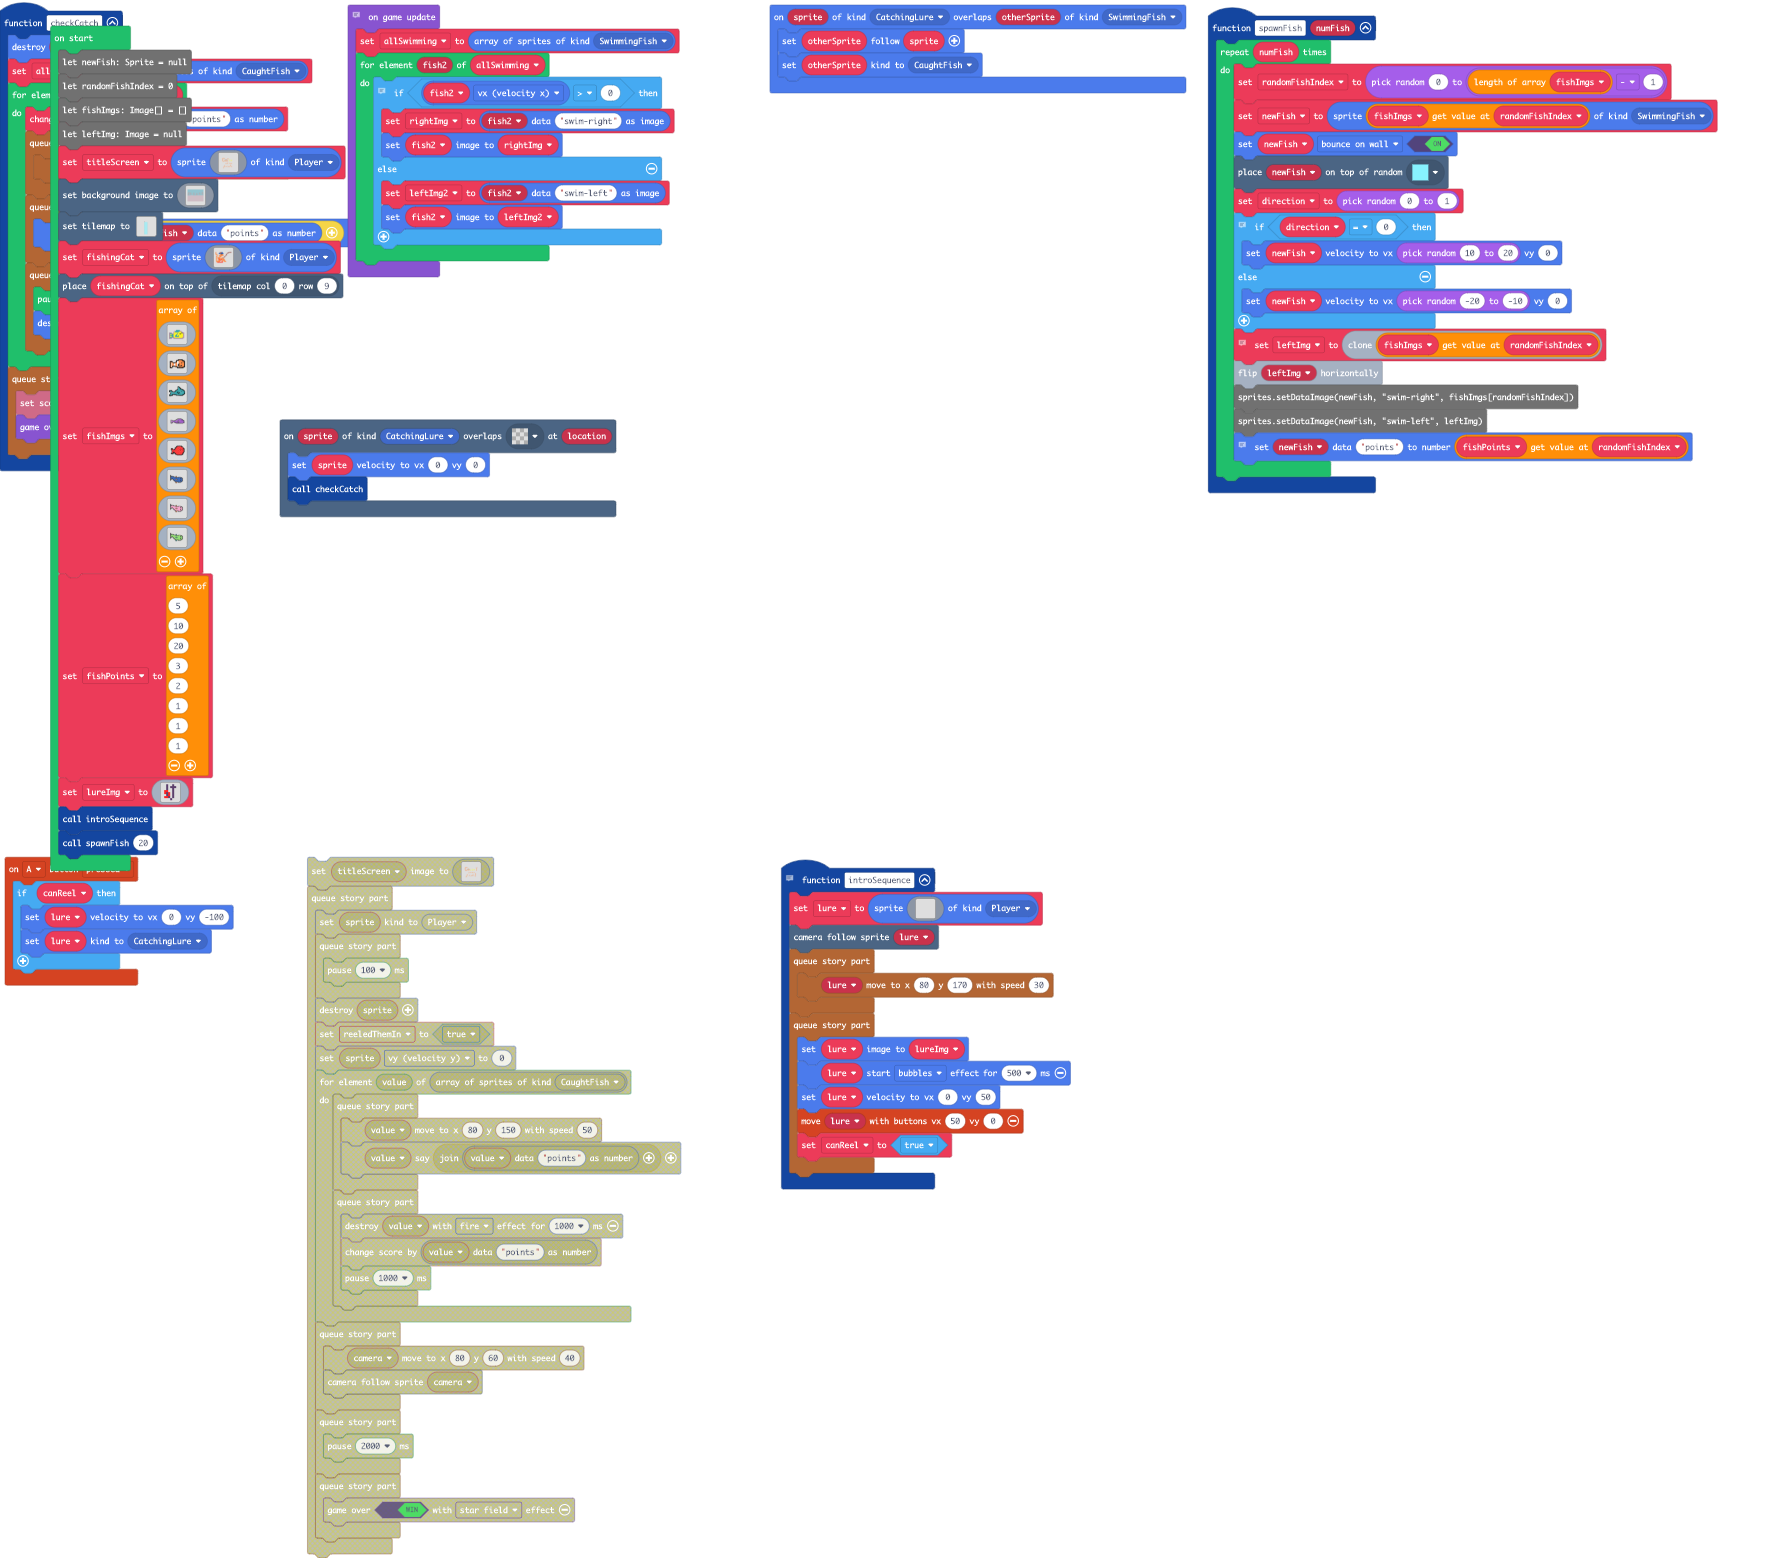
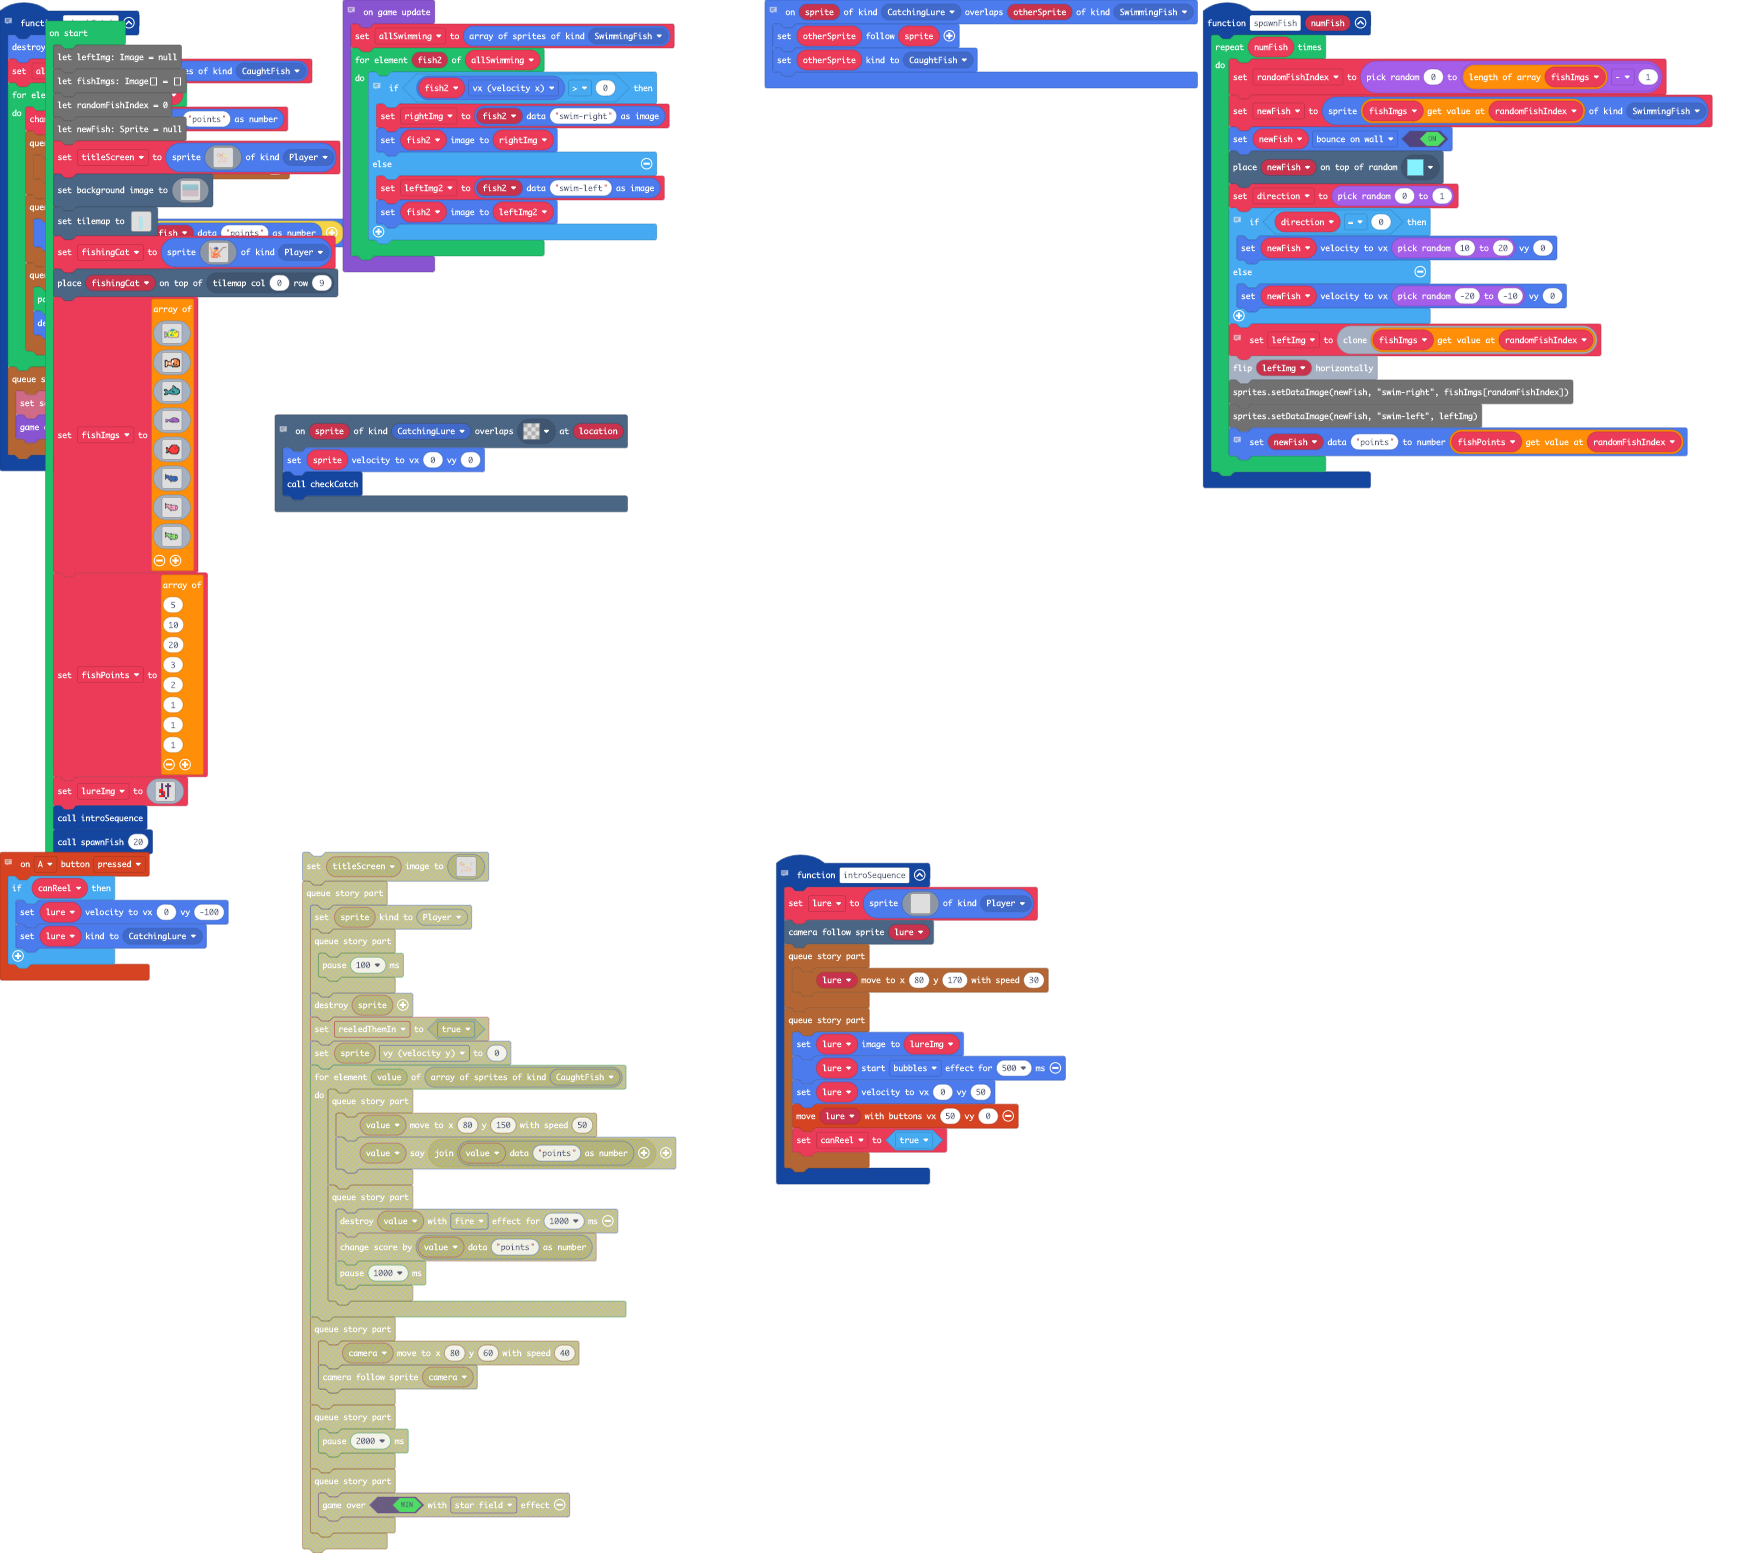
Update pxt.json, main.blocks, main.ts

diff --git a/main.ts b/main.ts
@@ -3,7 +3,11 @@ namespace SpriteKind {
     export const SwimmingFish = SpriteKind.create()
     export const CaughtFish = SpriteKind.create()
 }
-
+// When lure is reeled to surface of water
+scene.onOverlapTile(SpriteKind.CatchingLure, myTiles.transparency16, function (sprite, location) {
+    sprite.setVelocity(0, 0)
+    checkCatch()
+})
 // Intro sequence to pan down and drop lure
 function introSequence () {
     lure = sprites.create(img`
@@ -36,42 +40,6 @@ function introSequence () {
         canReel = true
     })
 }
-
-function spawnFish (numFish: number) {
-    for (let index = 0; index < numFish; index++) {
-        randomFishIndex = randint(0, fishImgs.length - 1)
-        newFish = sprites.create(fishImgs[randomFishIndex], SpriteKind.SwimmingFish)
-        newFish.setFlag(SpriteFlag.BounceOnWall, true)
-        tiles.placeOnRandomTile(newFish, myTiles.tile4)
-        
-        direction = randint(0, 1)
-
-        // Swim right
-        if (direction == 0) {
-            newFish.setVelocity(randint(10, 20), 0)
-        }
-        // Swim left
-        else {
-            newFish.setVelocity(randint(-20, -10), 0)
-        }
-
-        // Store left and right images
-        leftImg = fishImgs[randomFishIndex].clone()
-        leftImg.flipX()
-        sprites.setDataImage(newFish, "swim-right", fishImgs[randomFishIndex])
-        sprites.setDataImage(newFish, "swim-left", leftImg)
-
-        // Store points
-        sprites.setDataNumber(newFish, "points", fishPoints[randomFishIndex])
-    }
-}
-
-// When lure is reeled to surface of water
-scene.onOverlapTile(SpriteKind.CatchingLure, myTiles.transparency16, function (sprite, location) {
-    sprite.setVelocity(0, 0)
-    checkCatch()
-})
-
 // Add up points and present fish
 function checkCatch () {
     lure.destroy()
@@ -94,7 +62,6 @@ function checkCatch () {
         game.over(true)
     })
 }
-
 // Reel in lure
 controller.A.onEvent(ControllerButtonEvent.Pressed, function () {
     if (canReel) {
@@ -102,7 +69,29 @@ controller.A.onEvent(ControllerButtonEvent.Pressed, function () {
         lure.setKind(SpriteKind.CatchingLure)
     }
 })
-
+function spawnFish (numFish: number) {
+    for (let index = 0; index < numFish; index++) {
+        randomFishIndex = randint(0, fishImgs.length - 1)
+        newFish = sprites.create(fishImgs[randomFishIndex], SpriteKind.SwimmingFish)
+        newFish.setFlag(SpriteFlag.BounceOnWall, true)
+        tiles.placeOnRandomTile(newFish, myTiles.tile4)
+        direction = randint(0, 1)
+        // Swim right
+        // Swim left
+        if (direction == 0) {
+            newFish.setVelocity(randint(10, 20), 0)
+        } else {
+            newFish.setVelocity(randint(-20, -10), 0)
+        }
+        // Store left and right images
+        leftImg = fishImgs[randomFishIndex].clone()
+        leftImg.flipX()
+        sprites.setDataImage(newFish, "swim-right", fishImgs[randomFishIndex])
+sprites.setDataImage(newFish, "swim-left", leftImg)
+// Store points
+        sprites.setDataNumber(newFish, "points", fishPoints[randomFishIndex])
+    }
+}
 // Catch fish when reeling in
 sprites.onOverlap(SpriteKind.CatchingLure, SpriteKind.SwimmingFish, function (sprite, otherSprite) {
     otherSprite.follow(sprite)
@@ -118,10 +107,10 @@ let canReel = false
 let lure: Sprite = null
 let lureImg: Image = null
 let fishPoints: number[] = []
-let newFish: Sprite = null
-let randomFishIndex = 0
-let fishImgs: Image[] = []
 let leftImg: Image = null
+let fishImgs: Image[] = []
+let randomFishIndex = 0
+let newFish: Sprite = null
 let titleScreen = sprites.create(img`
     ................................................................................................................................................................
     ................................................................................................................................................................
@@ -620,7 +609,6 @@ lureImg = img`
     `
 introSequence()
 spawnFish(20)
-
 // Update image to match swim direction
 game.onUpdate(function () {
     allSwimming = sprites.allOfKind(SpriteKind.SwimmingFish)
